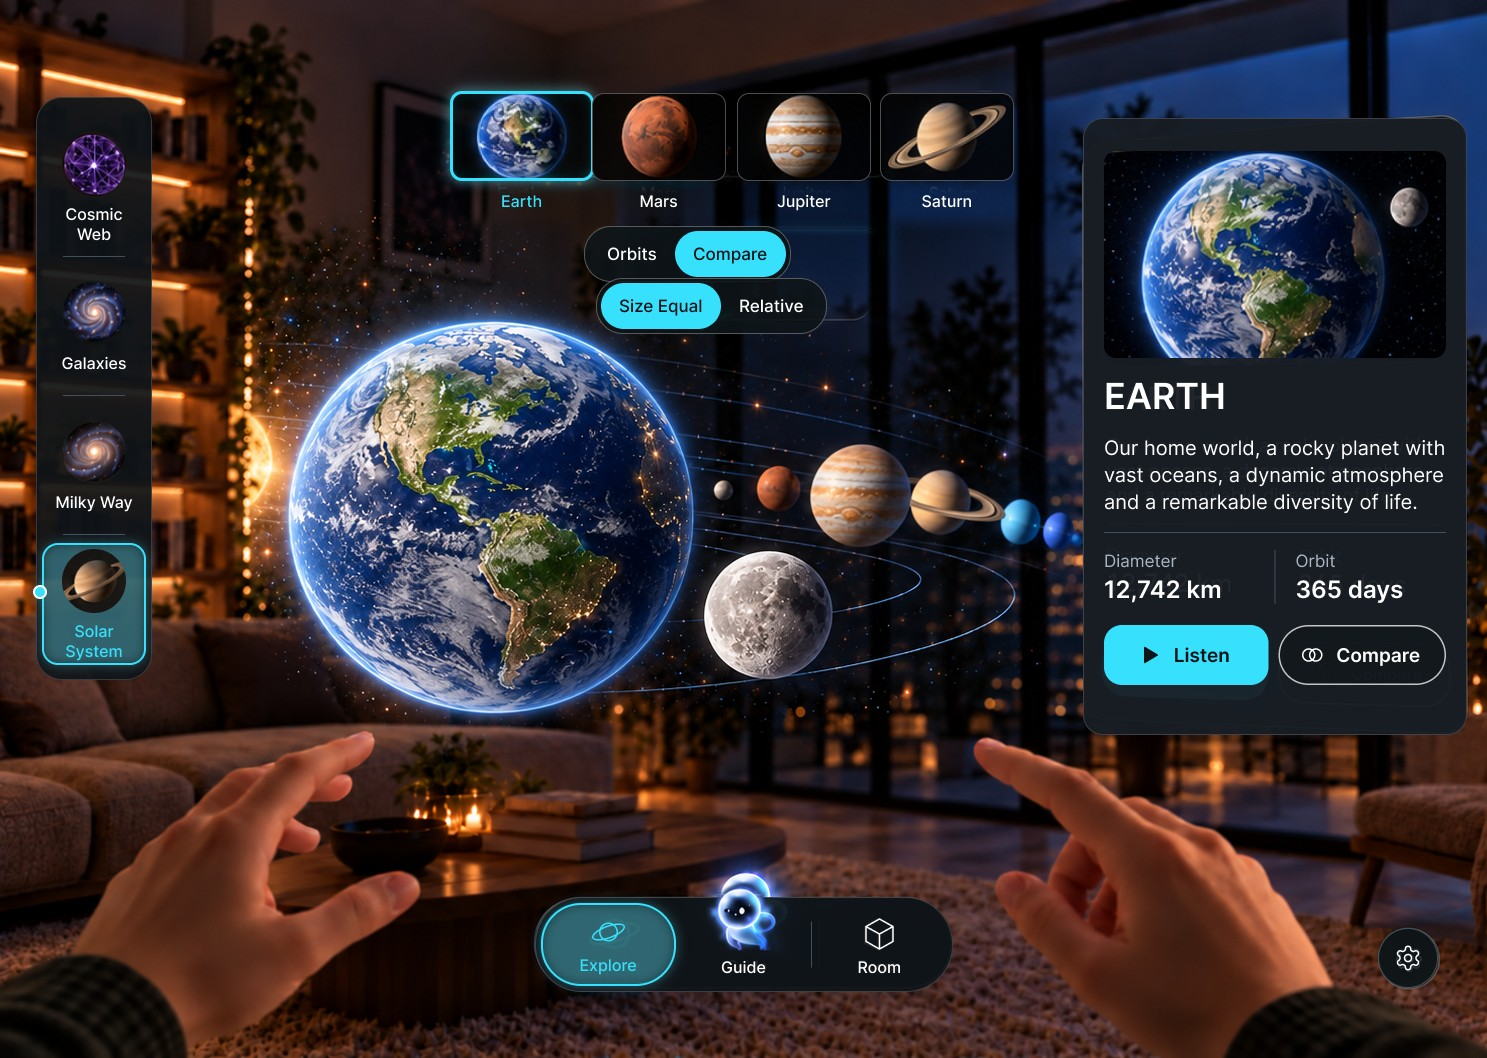
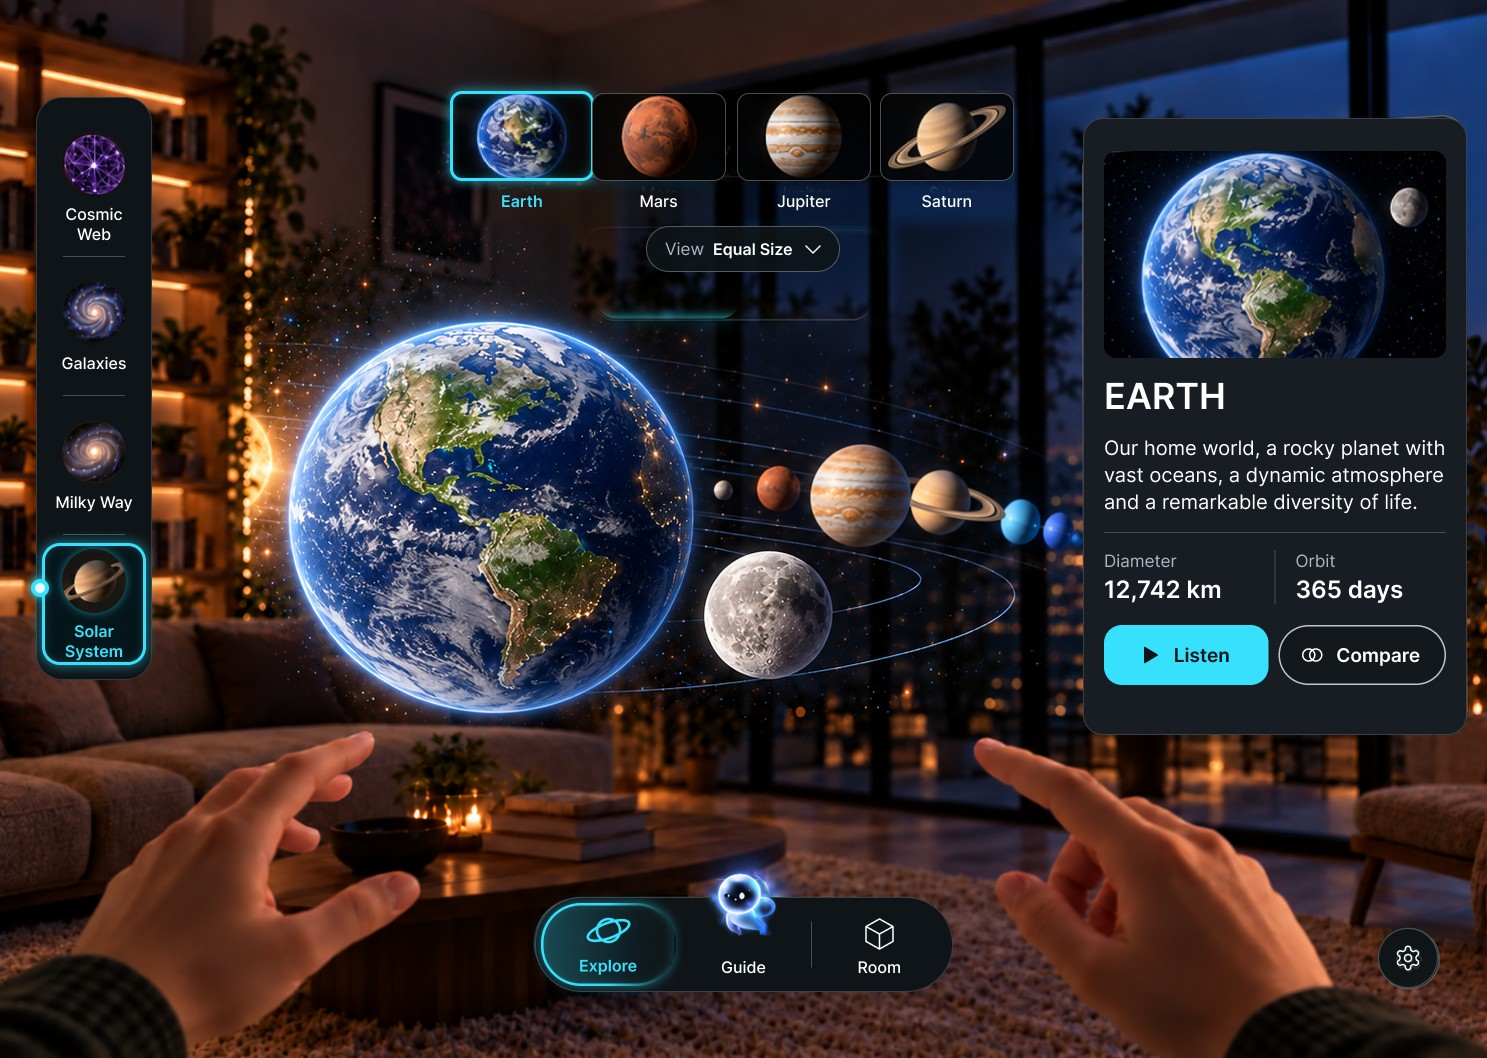
V2 third pass: selection states from the approved image, single Solar view chip, tokens aligned
Claude-Session: https://claude.ai/code/session_01FZya58ektwtapqCUZrxF6x

Changed region(s): [[0.4022, 0.1871, 0.5878, 0.3119], [0.3712, 0.811, 0.5259, 0.9357], [0.0, 0.4991, 0.1237, 0.655]]

diff --git a/docs/design/v2/FIGMA_PROGRESS.md b/docs/design/v2/FIGMA_PROGRESS.md
@@ -55,6 +55,8 @@ Text styles: `V2/Title` 36/42 Semi Bold, `V2/Heading` 24/30 Medium, `V2/Body` 20
 | Controls/IconButton | `44:152` | State ×5 |
 | Controls/Segmented | `53:105` | Options 2/3 × Selected, Disabled |
 | Controls/ToggleRow | `53:132` | On/Off/Disabled/Focused |
+| Controls/Chip | `91:407` | Default/Hover/Open; `Category`, `Value` |
+| Controls/Menu | `91:643` | built from Controls/MenuItem `91:564` (Default/Selected/Hover) |
 | Controls/ListRow | `64:1172` | Kind ×6; `Title`, `Description`, `Leading icon` |
 | Icon/Glyph | `61:497` | 18 names × Tone Primary/OnAccent/Accent |
 | Navigation/DockItem | `44:208` | Item ×3 × State Default/Active/Hover/Disabled |
@@ -169,13 +171,19 @@ Buttons with no link in the prototype, by design or not yet designed: Compare on
 
 The per-screen comparison images under `evidence/` for S08 and S23 predate the wording change; the page overviews `explore-S01-S14.jpg` and `flows-S33-S39.jpg` are current.
 
+## Third pass (13 Oct 2026, owner feedback)
+
+- **Selection states** rebuilt from the approved image (`evidence/selection-reference-vs-figma.jpg`). Dock: the active Explore pill has a cyan outline that is bright on the left and fades toward the right, a faint cyan wash, a larger cyan icon and a semibold cyan label; active Guide and Room use a full outline. Rail: 3 px cyan outline with outer and inner glow, dark teal fill, glowing context image, semibold cyan label, larger dot on the left edge. Selected tile: inner glow and semibold cyan label. New text style `V2/Caption Strong`.
+- **Solar view control.** The two stacked controls (View: Orbits/Compare and Size: Equal/Relative) are replaced on S07, S08 and S36 by one `Controls/Chip` (`91:407`) that reads "View Equal Size" and opens `Controls/Menu` (`91:643`, items from `Controls/MenuItem` `91:564`): Orbits, Equal Size, Relative Size, then Other star systems. Size only ever applied in Compare, so the real choice is three views, not two-by-two. Options board on the Explore page and in `evidence/solar-view-control-options.jpg`: 0 before, A chip (recommended, applied), B one three-way switch. Prototype frames `S07b`/`S08b` show the open menu. This departs from reference 02 at the owner's request.
+- **tokens.json** now carries the accent (`#37E1FD`), type sizes and button radius measured from the approved frame; the previous values are kept in its `note`.
+- The S01 and S08 comparison images under `evidence/` are current. The S23 one still predates the Settings wording change.
+- Not done: new Unity captures for Sagittarius A* and the nebula interior. That needs a play-mode capture session in the editor and is better as its own [TERM] ticket.
+
 ## Open items
 
 Decisions taken without an owner response (all reversible):
 
-1. **Accent.** The `cyan/400` primitive is `#37E1FD`, sampled from the approved renders. `tokens.json` still says `#6CCFDD`.
-2. **Type scale.** Styles follow the canonical frame (36/24/20/17). `tokens.json` lists 28/22/16/14 and is unchanged.
-3. **Button radius and photo ratio** follow the canonical frame (18 and pill; about 1.64:1), not the tokens (12; 16:9).
+1. **Accent, type scale, button radius** follow the canonical frame, and `tokens.json` now matches. The card photo ratio (about 1.64:1) still differs from the spec's 16:9.
 4. **Spec over reference** for the Settings and Solar wording above.
 
 Known deviations and gaps:
